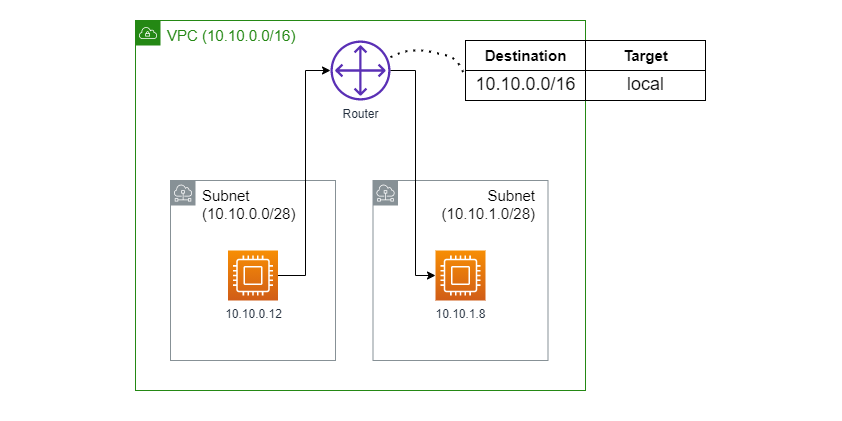
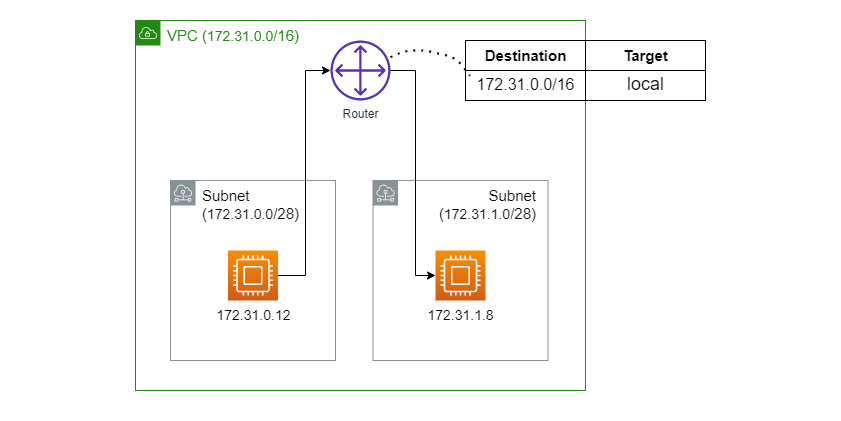
updated post with improvements

diff --git a/_posts/2021-06-06-P004-aws-dabbling-with-vpc.md b/_posts/2021-06-06-P004-aws-dabbling-with-vpc.md
@@ -11,9 +11,13 @@ Illustration Source: "Connected World" from [https://undraw.co](https://undraw.c
 
 I had decided to attempt AWS Solutions Architect Exam. So, after doing some initial learning, I went ahead and gave my first practice test. And... I bombed the VPC section! 
 
-VPC being one of the most important sections of AWS, I had to learn it as thoroughly as I could. I read through every material I had and created my own little paper notes. This post includes those notes, just digitalized!
+Then, I took it personally and read through every material I had. During this process I created my own little paper notes. This post includes those notes, just digitalized!
 
-*To read through this, you might have to know the basics of AWS. At least an overview of all the services offered. Also, feel free to save any diagrams given here, it's for your reference!*
+*To read through this, you might have to know the basics of AWS. At least an overview of all the services offered. I have tried to write it from a novice's perspective as much as possible. If you are reading this and could not understand any part, do contact me! I will try to improve it as much as possible.* 
+
+*Also, feel free to save any diagrams given here, it's for your reference!*
+
+*Any AWS Console Screenshots provided below might change in future, do keep that in mind.*
 
 <br>
 
@@ -29,19 +33,28 @@ VPC being one of the most important sections of AWS, I had to learn it as thorou
 <br>
 
 ## Where is my data being stored?
-Amazon stores your data in blimps soaring through the sky, hence they are called Cloud Storage... 
+Amazon stores your data in blimps soaring through the sky, hence they are called cloud storage... 
 
-Okay, Just Kidding! I don't expect you to fall for that. You must be at a level to understand that Cloud is nothing but data centers managed by a third party (Amazon in this case). Amazon rents out these data centers for other companies to use. This service offering is called AWS. You already knew that right... RIGHT?
+Okay, Just Kidding! I don't expect you to fall for that. You must be at a level to understand that "cloud" is nothing but data centers managed by a third party (Amazon in this case). Amazon rents out these data centers for other companies to use. This service offering is called AWS. 
 
-AWS has logically clustered all its data centers. 
+*You already knew that right... RIGHT?*
+
+Renting out doesn't exactly mean allowing customers to manage a certain data center. AWS does it by running "Virtual Machines" over their physical machines. This allows them to provide a level of isolation that otherwise would not have been possible. In simple terms, they provide you storage and compute power over a network, while maintaining the actual infrastructure themselves. They do this in exchange for a fee, based on pay-as-you-go model!
+
+Let's say, You want to run your application "Meme Generator" on AWS, you will need something called an EC2 Instance. In AWS, an EC2 instance is a computational unit, just like your own computer. Each instance has its own Memory and CPU, that enables you to run any job/application on it easily. This virtual machine could be running on any machine from AWS's data center. Your instance could even be running on the same hardware that is calculating a rocket's trajectory to Mars!
+
+That's the power of Cloud!
+
+Now, when you have a customer base like AWS, a single datacenter is not enough. So AWS has hundreds of them, spread across multiple continents. In order to make it easier to organize those datacenters, AWS has logically clustered them based on location -
+
 1. One or Multiple **data centers** that are closely located are being called an **Availability Zone (AZ)** (N Data Centers 🔗 1 Availability Zone).
 2. Two or More **Availability Zones (AZ)** that are located in the same general location are being called *Regions* (N Availability Zones 🔗 1 Region)
 
 There are several benefits of this... 
 
-Let's say a massive cyclone hit an AZ, what do you think will happen? 
+Let's say a massive cyclone hit a particular AZ, what do you think will happen? 
 
-Well, the location for each AZ has been chosen such that they are at least 60 miles (96.56 km) apart! So even if an AZ goes down due to some catastrophe, there is a very low chance that same would hit another AZ. Thus, there are multiple AZs to act as a backup for any failed AZ.
+Well, the location for each AZ has been chosen such that they are at least 60 miles (~96 km) apart! So even if an AZ goes down due to some catastrophe, there is a very low chance that some other AZ would be affected. Thus, there are multiple AZs to act as a backup for any failed AZ. So as long as your application is using services that are spread across multiple AZs you can say that your application is highly available.
 
 This hierarchy of *Regions, AZs, and Data Centers* can be seen in the below illustration,
 ![](assets/img/P004/01_01.png)
@@ -52,9 +65,8 @@ This hierarchy of *Regions, AZs, and Data Centers* can be seen in the below illu
 ### ✍ Remember
 1. Costs associated with resources differ from Region to Region, because AWS generally discounts in Regions where it's cheaper to operate a data center. 
 2. Not all services are available in all the Regions.
-3. Any resource spread across multiple AZs are considered to be Highly Available (i.e: even if an AZ goes down resource will continue working)
-4. AWS has separate Regions called `GovCloud` to be used by the US, only US Government organizations are allowed to use data centers in those Regions.
-5. When you choose a region for provisioning your resources, just keep following parameters in your mind,
+3. AWS has separate Regions called *GovCloud* to be used by the US, only US Government organizations are allowed to use data centers in those Regions.
+4. When you choose a region for provisioning your resources, just keep following parameters in your mind,
    - *Optimize Latency:* Make sure Users who will be primarily accessing your applications are closer to the region where you are provisioning your resource so that latency can be minimized. 
    - *Minimize Costs:* As previously said, some services are cheaper in certain Regions. While this difference is not significant, it should be one of your deciding factors.
    - *Address Regulatory Requirements:* Some governments have regulations that do not allow their citizen's data to be stored outside their country, such regulatory requirements must be considered as well.
@@ -63,11 +75,13 @@ This hierarchy of *Regions, AZs, and Data Centers* can be seen in the below illu
 {:style="border: 4px solid #FDC975"}
 
 ## How to make sure my resources are isolated?
-It's possible to isolate your instances from others with the help of **VPC (Virtual Private Cloud)**. Consider VPC as a networking layer above your AWS resources, most of your AWS resources have to be assigned a VPC. With VPC, it's easier to govern how each of these resources communicates with each other and the world.
+When you are running an organization, there are often requirements for multiple isolated environments. And isolation in this case would mean - resources running on one environment should not be able to access resources from some another environment. Only if there was a possibility to draw a box around our resources, such that it is contained only within that boundary. Well... that's where VPCs come in.
 
-VPC has a boundary, *you cannot span VPCs across multiple Regions* (1 VPC 🔗 1 Region). All resources provisioned within a VPC will be created in the same Region only. Since a Region may include multiple AZs, a VPC may include multiple AZs (1 VPC 🔗 N AZ). Also, *a Region itself can have multiple VPCs under it* (1 Region 🔗 N VPC).
+*VPC (or Virtual Private Cloud)* is a networking layer above your AWS resources, most of your AWS resources have to be assigned a VPC. With VPC, it's easier to govern how each of these resources communicate with each other and the world.
 
-If VPC is not enough for logical isolation of your resources, you can also create Subnets within any VPC. Subnets or subnetworks are just VPCs divided into smaller networks. 
+VPC has a physical boundary, *you cannot span VPCs across multiple Regions* (1 VPC 🔗 1 Region). All resources provisioned within a VPC will be created in the same Region only. Since a Region may include multiple AZs, a VPC may include multiple AZs (1 VPC 🔗 N AZ). Also, *a Region itself can have multiple VPCs under it* (1 Region 🔗 N VPC).
+
+If VPC is not enough for logical isolation of your resources, you can also create Subnets within any VPC. Subnets (or subnetworks) are just VPCs divided into smaller networks. 
 
 Association between Subnets and AZ is similar to that of VPC and Regions, *you cannot span Subnet across multiple AZs* (1 Subnet 🔗 1 AZ), all resources provisioned within a Subnet will be created in the same AZ. Also, *an AZ itself can have multiple Subnets under it* (1 AZ 🔗 N Subnets)
 
@@ -87,17 +101,17 @@ Association between Subnets and AZ is similar to that of VPC and Regions, *you c
 {:style="border: 4px solid #FDC975"}
 
 ## What should I take care of before deploying any resource?
-Here's a beautiful diagram of AWS resources and how they interact at various levels of networking –
+AWS has a lot of services, and its really impossible to remember what each of them do. Consider below diagram –
 
 ![](assets/img/P004/03_01.png)
 
-If you haven't heard of all the services yet, that's okay. Just revisit this once you go through them later. But do remember, it's important to know – where your resource is getting deployed.
+If you haven't heard of all the services yet, that's okay. Just revisit this once you go through them later. But do remember, its important to know – where your resource is getting deployed and how they interact with various levels of networking.
 
 From the above diagram,
-1. *EC2 Instances* and *RDS Instances* are deployed on an AZ. So when you create one, you need to choose one VPC and one Subnet for both.
-2. *Elastic Load Balancers* are deployed in a Region but confined within a VPC, it can route traffic to multiple AZs at once. So when you create one, you need to choose one VPC and multiple Subnets.
-3. *SNS, S3, Lambda, API Gateway, DynamoDB, and SQS* are all managed services by AWS, that is deployed on a Region. You only need to choose a Region and are not required to choose any VPC.
-4. *IAM and Route53* are global services, that can be accessed from any Region.
+1. **EC2 Instances** and **RDS Instances** are deployed on an AZ. So when you create one, you need to choose one VPC and one Subnet for both.
+2. **Elastic Load Balancers** are deployed in a Region but confined within a VPC, it can route traffic to multiple AZs at once. So when you create one, you need to choose one VPC and multiple Subnets.
+3. **SNS, S3, Lambda, API Gateway, DynamoDB, and SQS** are all managed services by AWS, that is deployed on a Region. You only need to choose a Region and are not required to choose any VPC.
+4. **IAM and Route53** are global services, that can be accessed from any Region.
 
 AWS offers a lot of services, but I have only included the most important ones here. Before you go through any service, just try to read – how it interacts with various networking components of AWS. This can immensely help you in cracking your certification exam.
 
@@ -128,18 +142,24 @@ Here are some examples to get started with,
 
 ![](assets/img/P004/04_04.png)
 
-Hopefully, that made it clear. In case you are bad at calculations (like me 😜), you can use this nifty tool – [Subnet Calculator](https://mxtoolbox.com/subnetcalculator.aspx). This makes it easier to calculate the range of your CIDR block.
+Hopefully, that made it clear. In case you are bad at calculations, you can use this nifty tool – [Subnet Calculator](https://mxtoolbox.com/subnetcalculator.aspx). This makes it easier to calculate the range of your CIDR block.
 
-As I said, while creating a VPC you have to assign a CIDR block to it. This block decides the IP Addresses of hosts that will be provisioned within that VPC. Similarly, when you create a Subnet, you will be asked to provide a CIDR block, this must be within the CIDR range of its parent VPC.
+As I said, while creating a VPC you have to assign a CIDR block to it. This block decides the IP Addresses of hosts that will be provisioned within that VPC. 
+
+![](assets/img/P004/04_05.png)
+
+Similarly, when you create a Subnet, you will be asked to provide a CIDR block, this must be within the CIDR range of its parent VPC.
+
+![](assets/img/P004/04_06.png)
 
 ---
 {:style="border: 4px solid #FDC975"}
 
 ### ✍ Remember
 1. The allowed CIDR Range in AWS is anywhere between `/16` and `/28`, which corresponds between 65,536 IPs and 16 IPs.
-2. The above CIDR range is only for IPv4 addresses. It's also possible to set an IPv6 CIDR range, but it's not mandatory to create a VPC. In case you are new to networking, here's a nice video explaining it for you – [Internet Protocol - IPv4 vs IPv6 as Fast As Possible](https://www.youtube.com/watch?v=aor29pGhlFE).
+2. The above CIDR range is only for IPv4 addresses. It's also possible to set an IPv6 CIDR range, but it's not mandatory. In case you are new to networking, here's a nice video explaining it for you – [Internet Protocol - IPv4 vs IPv6 as Fast As Possible](https://www.youtube.com/watch?v=aor29pGhlFE).
 3. Once a VPC is created with a certain CIDR range, you cannot modify it later. The only option you have is to create a new VPC as per the new requirement and migrate your application from an older VPC to a newer one.
-4. **IMPORTANT:** Whenever you create a Subnet, AWS reserves *the first four IPs* and *last IP* for internal networking purposes. So whenever you calculate the total available IPs you might have to *reduce 5 IPs* from that count, as those are reserved. (e.g: for `10.0.0.0/24`, following IPs are reserved – `10.0.0.1`, `10.0.0.2`, `10.0.0.3`, `10.0.0.4` and `10.0.0.255`, thus out of `256 IPs` only `251 IPs` are actually available.)
+4. **Important:** Whenever you create a Subnet, AWS reserves *the first four IPs* and *last IP* for internal networking purposes. So whenever you calculate the total available IPs you might have to *reduce 5 IPs* from that count, as those are reserved. (e.g: for `10.0.0.0/24`, following IPs are reserved – `10.0.0.1`, `10.0.0.2`, `10.0.0.3`, `10.0.0.4` and `10.0.0.255`, thus out of `256 IPs` only `251 IPs` are actually available.)
 
 ---
 {:style="border: 4px solid #FDC975"}
@@ -160,18 +180,17 @@ So, how does a Route Table look like?
 
 ![](assets/img/P004/05_01.png)
 
-If you had created a VPC with CIDR `10.10.0.0/16`, its route table will look like the one above.
+If you had created a VPC with CIDR `173.31.0.0/16`, entries in its Route Table will look like the one above.
 
-As you can see, Route Table only consists of 2 columns – Destination and Target. Whenever any instance tries to access any IP address from the given CIDR range, it will forward the request to a local network (i.e: within your VPC).
+As you can see, Route Table only consists of 2 columns that's of importance – Destination and Target. Whenever any instance tries to communicate with any IP address, that IP Address is looked-up in Route Table. If IP Address falls within the given CIDR range, traffic will be routed appropriately. 
 
-Here's a simple diagram on how routing will happen between 2 instances inside a VPC, For the below example let's consider that instance with IP `10.10.0.12` is trying to access an instance with IP `10.10.1.8`.
+With above configuration, any traffic with destination IP within the given CIDR range `173.31.0.0/16` will be forwarded to `local` which means it will be routed within VPC. 
+
+With above configuration, let's say, an instance with IP `173.31.0.12` is trying to access an instance with IP `173.31.1.8` -
 
 ![](assets/img/P004/05_02.png)
 
-Given Router is invisible to us, whenever you make a request from one of your instances to another, the request goes through the Router that in turn refers to the Route Table created by you or the default one in this case. Then as per Route Table traffic will be routed to the destination, which is local in this example.
-
 Route Table may not look very useful now, that is because we are yet to discuss various components that would require a Route Table entry to work. Which mostly include gateway services like – Internet Gateway (service that allows instances in VPC to access the internet), VPC Peering (service that allows instances to connect to your local infrastructure), and NAT Gateway (service that again allows instances to access the internet but without assigning a Public IP to instances).
-
 
 ---
 {:style="border: 4px solid #FDC975"}
@@ -190,9 +209,7 @@ Route Table may not look very useful now, that is because we are yet to discuss 
 ## What to do next?
 The Only way to remember the concepts given here is to get your hands dirty. 
 
-AWS's interface keeps changing from time to time so it's pointless to include screenshots for creating a VPC or a Subnet, as it may get outdated in few months.
-
-Instead, I would suggest going through this, [VPC Getting Started](https://docs.aws.amazon.com/vpc/latest/userguide/vpc-getting-started.html) – Here you will learn to create a VPC, launch an instance into your VPC, assign Elastic IP to your instance and access your instance. I know we haven't discussed Elastic IP yet, still, there's no harm in going through the link and trying it out.
+I would suggest going through this, [VPC Getting Started](https://docs.aws.amazon.com/vpc/latest/userguide/vpc-getting-started.html) – Here you will learn to create a VPC, launch an instance into your VPC, assign Elastic IP to your instance and access your instance. I know we haven't discussed Elastic IP yet, still, there's no harm in going through the link and trying it out.
 
 ## That's it?
 Yes, VPC is a lot more than what's covered in this article. We still haven't looked into networking services that enable internet connectivity like – Internet Gateway (IGW), Network Address Translation (NAT), Elastic IP Address (EIP), etc. And also services that allow you to connect VPC to your local network, allowing you to securely access any resource. Well, those are topics for another day. 

diff --git a/_posts/2021-05-19-P002-game-guess-the-song.md b/_posts/2021-05-19-P002-game-guess-the-song.md
@@ -3,8 +3,8 @@ title:  "🎮 Game | I Made a 'Guess the Song' Quiz For Fun!"
 layout: post
 categories: [game]
 image: /assets/img/P002/cover.png
-description: "A fun game that can be hosted at any party, ideal for those who loves 90s Bollywood songs."
-customexcerpt: "A fun game that can be hosted at any party, ideal for those who loves 90s Bollywood songs."
+description: "While the game itself is pretty common, I just wanted to create one for others to have fun with."
+customexcerpt: "Just a game that I created in my free time. Feel free to read through if you are a 90s Bollywood fan!"
 ---
 ![Cover](/assets/img/P002/cover.png)
 Illustration Source: "Happy Music" from [https://undraw.co](https://undraw.co/){:target="_blank"}

diff --git a/_posts/2021-02-21-P001-python-opp-nth-digit-of-integer.md b/_posts/2021-02-21-P001-python-opp-nth-digit-of-integer.md
@@ -4,7 +4,7 @@ layout: post
 categories: [python]
 image: /assets/img/P001/cover.png
 description: "OPP or Overanalysing Programming Problems is a Series that explores different ways to solve a programming problem, this article explores - 'Nth Digit of an Integer'"
-customexcerpt: "OPP or Overanalysing Programming Problems is a Series that explores different ways to solve a programming problem, this article explores - 'Nth Digit of an Integer'"
+customexcerpt: "A series where I unnecessarily complicate a simple problem."
 ---
 ![Cover - Counting Stars](/assets/img/P001/cover.png)
 Illustration Source: "Counting Stars" from [https://undraw.co](https://undraw.co/){:target="_blank"}

diff --git a/_posts/2021-06-04-P003-python-listed-5-features-unique-to-python.md b/_posts/2021-06-04-P003-python-listed-5-features-unique-to-python.md
@@ -3,7 +3,7 @@ title:  "🖐 Listed | 5 Features Unique To Python"
 layout: post
 categories: [python]
 image: /assets/img/P003/cover.png
-description: "Including a list of language-specific features that I wish I knew when I had started using python for my projects."
+description: "Python's feature set had made it popular among people geting into programming. It's easier to understand and get into, I will explain 5 topics that are beginner friendly and easy to learn about."
 customexcerpt: "Including a list of language-specific features that I wish I knew when I had started using python for my projects."
 ---
 ![Cover](assets/img/P003/cover.png)
